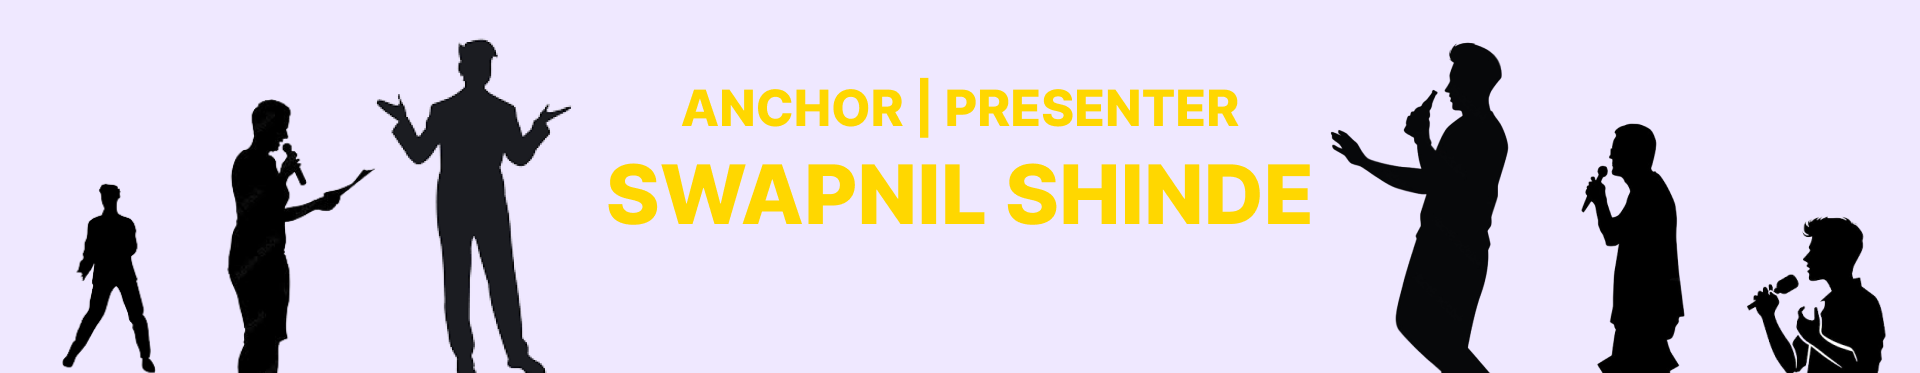
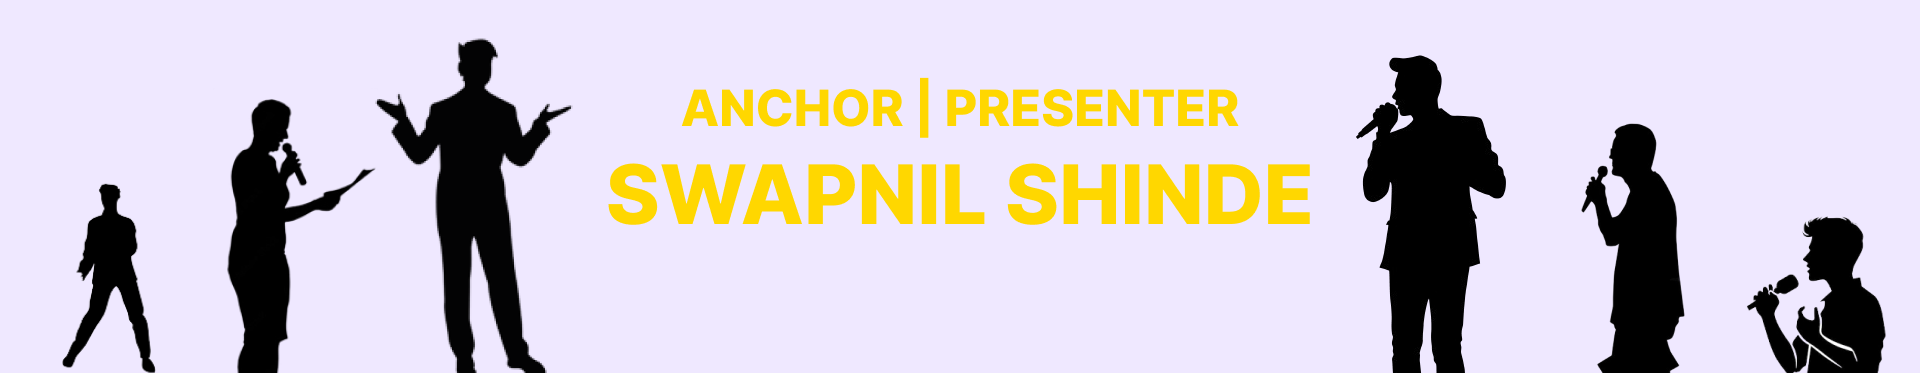
mobile view changes

Changed region(s): [[0.1875, 0.118, 0.3125, 1.0], [0.6875, 0.118, 0.8125, 1.0]]

diff --git a/index.html b/index.html
@@ -175,11 +175,20 @@
             <div class="wrapper">
 
                 <section class="intro-about" id="about">
-                    <img 
+                    <!-- <img 
                     src="/assets/img/swap_img/TITLE.png" 
                     srcset="/assets/img/swap_img/mob2.png 400w, /assets/img/swap_img/TITLE.png 800w" 
-                    sizes="(max-width: 400px) 100vw, (min-width: 200px) 50vw" 
-                    alt="Description of image">
+                    sizes="(max-width: 450px) 100vw, (min-width: 200px) 50vw" 
+                    alt="Description of image"> -->
+
+                    <picture>
+                        <!-- Source for mobile devices -->
+                        <source srcset="/assets/img/swap_img/mob2.png" media="(max-width: 768px)">
+                        <!-- Source for desktop devices -->
+                        <source srcset="/assets/img/swap_img/TITLE.png" media="(min-width: 769px)">
+                        <!-- Fallback image -->
+                        <img src="/assets/img/swap_img/TITLE.png" alt="Responsive Image">
+                    </picture>
                   
                     <!-- <div class="container">
                         <div class="row">
@@ -512,10 +521,10 @@
                         </div>
                         <div class="custom-container">
                             <div class="slick-slider">
-                                <div class="item-new slick-slide">
+                                <div class="item-new slick-slide youtube">
                                     <div class="image" data-overlay="5">
                                         <!-- <img src="assets/img/blog/1.jpg" alt=""> -->
-                                        <iframe width="560" height="315" src="https://www.youtube.com/embed/wgpqntSsqhM?si=5pp-6TKJAagQaZDP" title="YouTube video player" frameborder="0" allow="accelerometer; autoplay; clipboard-write; encrypted-media; gyroscope; picture-in-picture; web-share" referrerpolicy="strict-origin-when-cross-origin" allowfullscreen></iframe>
+                                        <iframe height="315" src="https://www.youtube.com/embed/wgpqntSsqhM?si=5pp-6TKJAagQaZDP" title="YouTube video player" frameborder="0" allow="accelerometer; autoplay; clipboard-write; encrypted-media; gyroscope; picture-in-picture; web-share" referrerpolicy="strict-origin-when-cross-origin" allowfullscreen></iframe>
                                     </div>
                                     <!-- <div class="content">
                                         <div class="background"></div>
@@ -531,10 +540,10 @@
                                     </div> -->
                                 </div>
 
-                                <div class="item-new slick-slide">
+                                <div class="item-new slick-slide youtube">
                                     <div class="image" data-overlay="5">
                                         <!-- <img src="assets/img/blog/2.jpg" alt=""> -->
-                                        <iframe width="560" height="315" src="https://www.youtube.com/embed/x9nDo0I9cFE?si=CZU6UXw5MOkBbA3i" title="YouTube video player" frameborder="0" allow="accelerometer; autoplay; clipboard-write; encrypted-media; gyroscope; picture-in-picture; web-share" referrerpolicy="strict-origin-when-cross-origin" allowfullscreen></iframe>
+                                        <iframe height="315" src="https://www.youtube.com/embed/x9nDo0I9cFE?si=CZU6UXw5MOkBbA3i" title="YouTube video player" frameborder="0" allow="accelerometer; autoplay; clipboard-write; encrypted-media; gyroscope; picture-in-picture; web-share" referrerpolicy="strict-origin-when-cross-origin" allowfullscreen></iframe>
                                     </div>
                                     <!-- <div class="content">
                                         <div class="background"></div>
@@ -552,7 +561,7 @@
                                 <div class="item-new slick-slide">
                                     <div class="image" data-overlay="5">
                                         <!-- <img src="assets/img/blog/3.jpg" alt=""> -->
-                                        <iframe width="560px" height="315" src="https://www.youtube.com/embed/iUtnZpzkbG8?si=zDbKZeM04zek6NKh" title="YouTube video player" frameborder="0" allow="accelerometer; autoplay; clipboard-write; encrypted-media; gyroscope; picture-in-picture; web-share" referrerpolicy="strict-origin-when-cross-origin" allowfullscreen></iframe>
+                                        <iframe width="100%" height="315" src="https://www.youtube.com/embed/iUtnZpzkbG8?si=zDbKZeM04zek6NKh" title="YouTube video player" frameborder="0" allow="accelerometer; autoplay; clipboard-write; encrypted-media; gyroscope; picture-in-picture; web-share" referrerpolicy="strict-origin-when-cross-origin" allowfullscreen></iframe>
                                     </div>
                                     <!-- <div class="content">
                                         <div class="background"></div>

diff --git a/assets/css/style.css b/assets/css/style.css
@@ -4706,6 +4706,7 @@ body.nav-active .dsn-nav-bar .icon-m .menu-icon__line {
     -webkit-box-ordinal-group: 3;
     -ms-flex-order: 2;
     order: 2;
+    font-size: 18px;
   }
 }
 
@@ -8472,7 +8473,7 @@ body.nav-active .dsn-nav-bar .icon-m .menu-icon__line {
 .fullscreen-slider {
   position: relative;
   width: 100%;
-  height: 100vh;
+  height: 50vh;
 }
 
 .fullscreen-slider .descover-holder {
@@ -13259,6 +13260,10 @@ display: none;
   border: none; 
 }
 
+.youtube iframe{
+  width: 100%;
+}
+
 @media only screen and (max-height:600px) and (max-width: 1280px){
   .pro-text h3{
     font-size: 30px !important;
@@ -13350,4 +13355,15 @@ display: none;
   .video-overlay{
     display: none !important;
   }
+  /* .intro-about{
+    background: url(../img/swap_img/mob2.png);
+  } */
 }
+
+
+/* .intro-about{
+  background: url(../img/swap_img/TITLE.png);
+  content: '';
+  height: 370px;
+  width: 100%;
+} */
